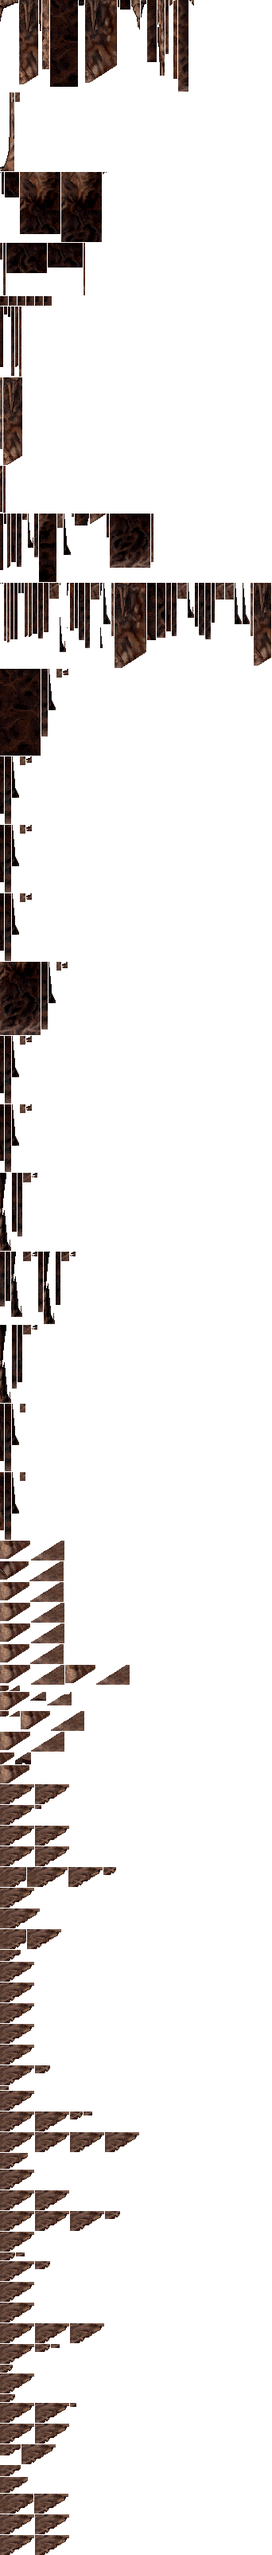
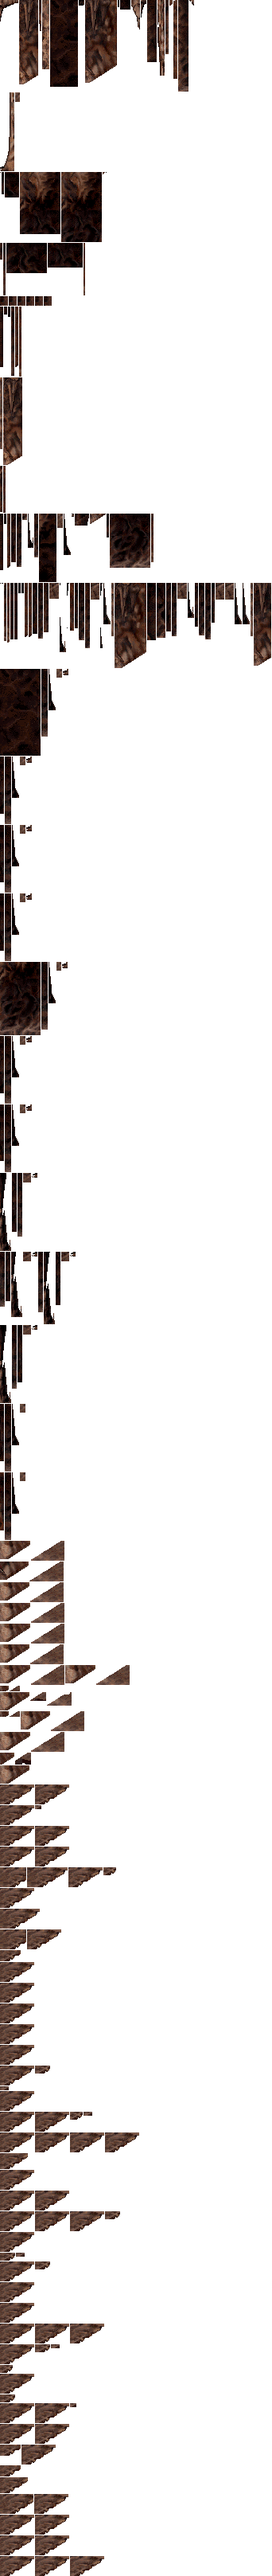
Blend approved right floor tips in level 5 room 1

Changed region(s): [[0.0, 0.0312, 1.0, 1.0], [0.4094, 0.6232, 0.4678, 0.6856]]

diff --git a/pop2/cavern_retouch.py b/pop2/cavern_retouch.py
@@ -88,7 +88,7 @@ def retouched_door_sprite(level, room, command, source):
 def retouched_sprite(room, command, source, *, level_number=3):
     approved = (room in (0, 1, 2, 3, 4, 5, 6, 7, 8, 9, 10, 11, 12, 13, 14, 15, 16, 18, 20, 21, 23, 24, 25, 26, 27, 29, 30, 31) if level_number == 3
                 else room in (0, 1, 2, 4, 5, 6, 8, 9, 11, 12, 13, 14, 15, 16, 17, 21, 22, 24, 25, 26, 27) if level_number == 4
-                else level_number == 5 and room in (1, 5, 6, 8, 10, 12, 13, 14, 15, 16, 18, 21, 22, 24))
+                else level_number == 5 and room in (0, 1, 5, 6, 8, 10, 12, 13, 14, 15, 16, 18, 21, 22, 24))
     if not approved or len(command) < 8 or command[7] != 4:
         return source
     key = (room, command[1], command[2], command[3], command[4])

diff --git a/tests/test_level5_cavern_retouch.py b/tests/test_level5_cavern_retouch.py
@@ -38,7 +38,7 @@ APPROVED = {
 class BundledLevelFiveArtworkTests(unittest.TestCase):
     def test_approved_scope_and_changed_source_guards(self):
         assets = retouch_assets(5)
-        self.assertEqual(len(assets), 64)
+        self.assertEqual(len(assets), 67)
         self.assertEqual({key[0] for key in assets}, (set(APPROVED) | right_tip_rooms(5)))
         for key, (record, image) in assets.items():
             room, shape, x, bottom, mode = key

diff --git a/docs/CAVERN_ARTWORK.md b/docs/CAVERN_ARTWORK.md
@@ -389,3 +389,4 @@ artwork; no original golden or mask assertion is discarded.
[4 lines of base64/hex data omitted]
